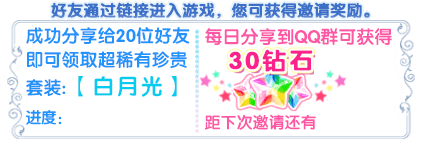
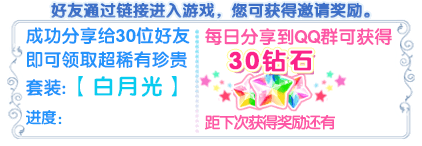
去掉限时奖励

diff --git a/nixi/src/panel/InviteFreeRewardPanel.ts b/nixi/src/panel/InviteFreeRewardPanel.ts
@@ -1,7 +1,6 @@
 class InviteFreeRewardPanel extends eui.Component {
 	public group: eui.Group;
 	public bg: eui.Image;
-	public model: Model;
 	public item_0: SignItemComp;
 	public item_1: SignItemComp;
 	public item_2: SignItemComp;
@@ -36,7 +35,7 @@ class InviteFreeRewardPanel extends eui.Component {
 	}
 
 	private initView() {
-		var arr: number[] = [21541, 31541, 51541, 61541, 71541, 71542, 71543, 71544, 15101];
+		var arr: number[] = [21541, 31541, 51541, 61541, 71541, 71542, 71543, 71544];
 		var len = arr.length;
 		for (var i = 0; i < len; i++) {
 			var id: number = arr[i];
@@ -49,12 +48,9 @@ class InviteFreeRewardPanel extends eui.Component {
 				sub_part = tempData["part"];
 			}
 
-			this.model.dressItem(sub_part, id);
-			this.model.dressItemOfSuit(sub_part, id);
+			// this.model.dressItem(sub_part, id);
+			// this.model.dressItemOfSuit(sub_part, id);
 
-			if(i == 8) {
-				continue;
-			}
 			var item = <SignItemComp>this["item_" + i];
 			item.itemBg.source = "ac_res_json.ac_6_item_bg";
 			item.icon.source = "icon" + id + "_png";
@@ -66,7 +62,7 @@ class InviteFreeRewardPanel extends eui.Component {
 		}else {
 			this.btn_invite.source = "libao_btn_lingqu_png";
 		}
-		this.label_count.text = InviteData.inviteCount + "/20";
+		this.label_count.text = InviteData.inviteCount + "/30";
 	}
 
 	private onInvite() {

diff --git a/nixi/src/panel/InvitePanel.ts b/nixi/src/panel/InvitePanel.ts
@@ -32,9 +32,9 @@ class InvitePanel extends eui.Component {
 		this.curTimes.text = InviteData.curTimes + "/3";
 		this.nextShareTime.text = this.formatShareTime(this.shareLeftTime);
 
-		this.curInviteNum.text = InviteData.inviteCount + "/20";
+		this.curInviteNum.text = InviteData.inviteCount + "/30";
 
-		if (InviteData.inviteCount < 20) {
+		if (InviteData.inviteCount < 30) {
 			this.btn_receive.visible = false;
 		} else {
 			this.btn_receive.visible = true;
@@ -202,7 +202,7 @@ class InvitePanel extends eui.Component {
 		}
 		this.playRewardAnimation(new_reward);
 
-		if (InviteData.inviteCount < 20) {
+		if (InviteData.inviteCount < 30) {
 			this.btn_receive.visible = false;
 		} else {
 			this.btn_receive.visible = true;

diff --git a/nixi/src/scenes/main/MainComp.ts b/nixi/src/scenes/main/MainComp.ts
@@ -327,7 +327,8 @@ class MainComp extends eui.Component {
 		this.newShareAnimationFirst();
 		this.newShareGroup.visible = ShareData.isShowNewShare;
 
-		this.checkoutTlDiscount();
+		//限时礼包========
+		// this.checkoutTlDiscount();
 
 		//邀请
 		// if (ConstData.Conf.whiteList.indexOf(LoginData.sid) != -1 || window["OPEN_DATA"].openid == "aaaa") {

diff --git a/nixi/src/panel/SixPanel.ts b/nixi/src/panel/SixPanel.ts
@@ -67,7 +67,7 @@ class SixPanel extends eui.Component {
 		} else {
 			this.btn_invite.source = "libao_btn_lingqu_png";
 		}
-		this.label_count.text = InviteData.inviteCount + "/3";
+		this.label_count.text = InviteData.inviteCount + "/6";
 	}
 
 	private touchTap(evt: egret.TouchEvent) {

diff --git a/nixi/src/panel/ThirtyPanel.ts b/nixi/src/panel/ThirtyPanel.ts
@@ -66,7 +66,7 @@ class ThirtyPanel extends eui.Component {
 		} else {
 			this.btn_invite.source = "libao_btn_lingqu_png";
 		}
-		this.label_count.text = InviteData.inviteCount + "/10";
+		this.label_count.text = InviteData.inviteCount + "/15";
 	}
 
 	private onBtnInvite() {
